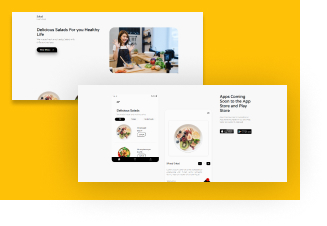
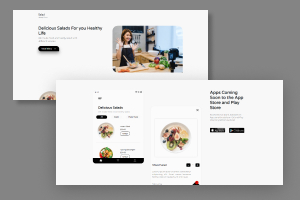
=mengubah warna bakcground

diff --git a/css/style.css b/css/style.css
@@ -3,7 +3,7 @@
   padding: 0;
 }
 body {
-  background-color: #616161 !important;
+  background-color: #191837 !important;
   position: relative;
 }
 body p {
@@ -29,8 +29,8 @@ body h4 {
 }
 nav {
   font-family: "Nunito", sans-serif;
-  border-bottom: 2px solid #696969;
-  background: #616161;
+  border-bottom: 2px solid #0a092c;
+  background: #191837;
 }
 nav .container a.logo {
   font-size: 23px;
@@ -64,7 +64,7 @@ nav div.container div.navbar-nav a.nav-link {
   align-self: flex-end;
 }
 div.banner .container .hide {
-  background: #616161;
+  background: #191837;
   overflow: hidden;
 }
 div.banner .container .hide span.text {

diff --git a/index.html b/index.html
@@ -194,7 +194,7 @@
             >
               <figure class="figure">
                 <img
-                  src="img-portfolio/Frame 2.jpg"
+                  src="img-portfolio/landingPage-healthyFood.jpg"
                   alt=""
                   class="img-fluid rounded img-portofolio"
                 />
